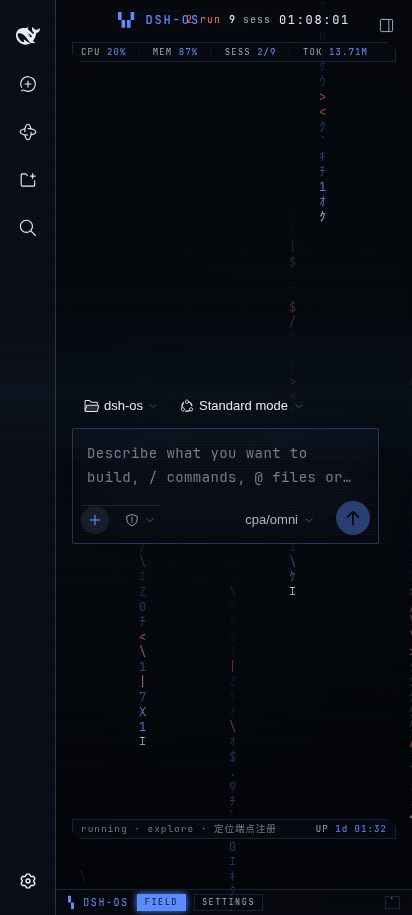
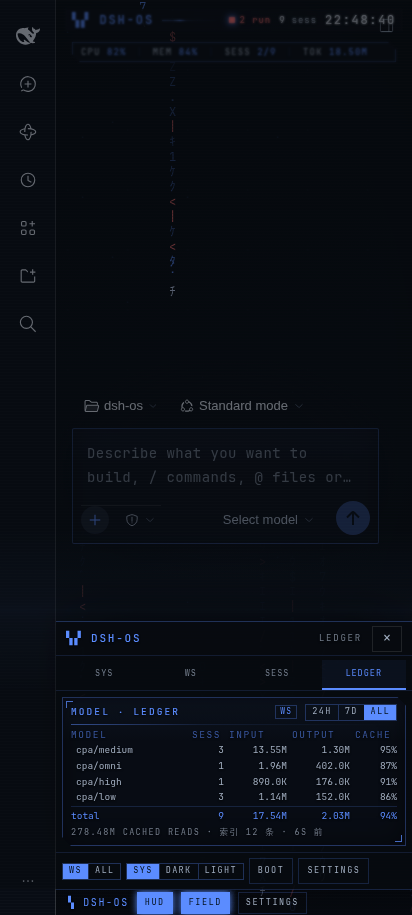
docs: record the mobile HUD and Windows validation
- Add the feature plan/summary, including the real Windows CI run and
  the launch-token workaround for dsh-e2e on 0.2.1-rc.3.
- Refresh README (both languages) and module instructions for the
  mobile bottom-sheet HUD, touch targets and the host CI matrix.
- Open host settings through the account menu on newer DSH layouts,
  which moved the settings trigger out of `sidebar.settings`.
- Regenerate the official screenshots; the mobile shot now shows the
  LEDGER tab, and the boot shot closes the login modal deterministically.

diff --git a/lib/client.js b/lib/client.js
@@ -592,7 +592,7 @@ html.dsh-os-theme[data-dos-strip-card] [data-conversation-scroll] {
 @media (max-width: 400px) {
   .dos-strip-age { display: none; }
 }
-`;function lo(){return window.matchMedia("(prefers-color-scheme: dark)").matches?"dark":"light"}function us(){return document.body.hasAttribute("data-ds-dark-theme")||document.documentElement.getAttribute("data-ds-theme-source")==="dark"?"dark":lo()}var dt=class{tone;preference;writable;skin;service;skinLayer=null;listeners=new Set;disposers=[];constructor(s){this.service=typeof s.theme?.getTheme=="function"?s.theme:void 0,this.writable=!!this.service,this.skin=typeof this.service?.overrideTokens=="function";let e=this.service?.getTheme();if(this.tone=e?e.active.colorScheme:us(),this.preference=e&&e.preference!=="system"?e.preference:"auto",this.service&&s.on){let n=s.on("theme/change",o=>{let a=o.active.colorScheme,l=o.preference==="system"?"auto":o.preference;a===this.tone&&l===this.preference||(this.tone=a,this.preference=l,this.emit())});typeof n=="function"&&this.disposers.push(n)}else this.watchDom()}applySkin(s){return this.service?.overrideTokens?(this.skinLayer=this.service.overrideTokens("dsh-os",s),!0):!1}clearSkin(){this.skinLayer?.(),this.skinLayer=null}watchDom(){let s=window.matchMedia("(prefers-color-scheme: dark)"),e=()=>{let a=us();a!==this.tone&&(this.tone=a,this.emit())},n=new MutationObserver(e);n.observe(document.body,{attributes:!0,attributeFilter:["data-ds-dark-theme"]});let o=new MutationObserver(e);o.observe(document.documentElement,{attributes:!0,attributeFilter:["data-ds-theme-source"]}),s.addEventListener("change",e),this.disposers.push(()=>{n.disconnect(),o.disconnect(),s.removeEventListener("change",e)})}set(s){this.service?.setTheme(s==="auto"?"system":s)}subscribe=s=>(this.listeners.add(s),()=>{this.listeners.delete(s)});dispose(){this.clearSkin();for(let s of this.disposers)s();this.disposers.length=0,this.listeners.clear()}emit(){for(let s of this.listeners)s()}};function ct(t,s){return t==="auto"?s:t}var Ce=require("react/jsx-runtime"),co="dsh-os",po=["slots","sessions","uiWorkspace","theme"],Tt="dsh-os:booted",ws="/plugins/dsh-os/metrics",ms=2e3,gs=5e3;function pt(t){for(let s of t.ids){let e=t.byId[s];if(e&&(e.retainedBy?.mainView??0)>0)return s}return null}function Ct(t){let s=pt(t);return s===null?!0:t.byId[s]?.blank===!0}function Et(t){let s=t.ids.map(a=>t.byId[a]).filter(a=>!!a?.cwd);if(s.length===0)return"";let e=s.find(a=>(a.retainedBy?.mainView??0)>0);if(e)return e.cwd;let n=s.filter(a=>a.blank);return(n.length>0?n:s).slice().sort((a,l)=>(l.updatedAt??0)-(a.updatedAt??0))[0]?.cwd??""}function Rt(){let t={w:window.innerWidth,h:window.innerHeight},s=document.querySelector('[class*="_centerCol"]')??document.querySelector('[data-slot="root"] > div > :nth-child(2)')??null,e=document.querySelector('[class*="_composerHero"]'),n=l=>{if(!l)return null;let i=l.getBoundingClientRect();return i.width<40||i.height<20?null:{x:i.x,y:i.y,w:i.width,h:i.height}},o=n(s)??{x:0,y:0,w:t.w,h:t.h},a=n(document.querySelector("[data-conversation-scroll]"));if(a){let l=Number.parseFloat(getComputedStyle(document.documentElement).getPropertyValue("--dos-strip-room"));Number.isFinite(l)&&l>0&&(a.y-=l)}return{col:o,hero:n(e),session:a,view:t}}function fo(){return window.matchMedia("(prefers-reduced-motion: reduce)").matches}function hs(t){for(let o of document.querySelectorAll(".dos-paint-through"))o.classList.remove("dos-paint-through");if(!t)return;let s=document.querySelector('[class*="_composerHero"]'),e=document.querySelector('[class*="_centerCol"]'),n=s?.parentElement??e;for(;n&&n!==document.body;){let o=getComputedStyle(n).backgroundColor,a=o&&o!=="rgba(0, 0, 0, 0)"&&o!=="transparent",l=n.getBoundingClientRect().height>=(e?.getBoundingClientRect().height??0)*.6;if(a&&l&&n.classList.add("dos-paint-through"),n===e)break;n=n.parentElement}}function xs(t){return{x:t.col.x,y:t.col.y+46,w:t.col.w,h:Math.max(240,t.col.h-120)}}function ys(t){if(!t.hero)return null;let{x:s,y:e,w:n,h:o}=t.hero;return{x:s-24,y:e-24,w:n+48,h:o+48}}function bs(t,s,e){return{at:Date.now(),tag:t,msg:s,tone:e}}function uo(){let t=0,s=[bs("dsh-os","2.0 \xB7 session index linked"),bs("telemetry",`${ws} online`)];return{get lines(){return s},push(e,n,o){let a=Date.now();return a-t<800?!1:(t=a,s=[...s.slice(-39),{at:a,tag:e,msg:n,tone:o}],!0)}}}function vs(){let s=document.querySelector('[class*="_settingsArea"]')?.querySelector('button, [role="button"]');if(s instanceof HTMLElement){s.click();return}let n=[...document.querySelectorAll('button, [role="button"]')].find(o=>{let a=o.getAttribute("aria-label")??"",l=(o.textContent??"").trim();return/settings|设置/i.test(a)||/^(settings|设置)$/i.test(l)});n instanceof HTMLElement&&n.click()}var At=class{ctx;settings;theme;layer=null;field=null;active=!1;constructor(s,e,n){this.ctx=s,this.settings=e,this.theme=n}activate(){this.active||(this.active=!0,document.documentElement.classList.add("dsh-os-live"),hs(!0),this.applyTheme(),this.syncField())}deactivate(){this.active&&(this.active=!1,document.documentElement.classList.remove("dsh-os-live"),this.applyTheme(),this.unmountField(),hs(!1))}applyTheme(){let s=document.documentElement,e=this.settings.value,n=ct(e.tone,this.theme.tone),o=kt(e);s.dataset.dosTone=n,s.classList.toggle("dsh-os-theme",e.skin),s.classList.toggle("dsh-os-skin-composer",e.skinComposer),e.skin&&this.theme.skin?this.theme.applySkin(is(o)):this.theme.clearSkin();let a=ls(n,o);if(e.enabled||e.skin)for(let[l,i]of Object.entries(a))s.style.setProperty(l,i);else for(let l of Object.keys(a))s.style.removeProperty(l);!e.enabled&&!e.skin&&s.removeAttribute("data-dos-tone"),this.field?.setSurface(n),this.field?.setPalette(St(n,o),o)}syncField(){if(!this.active)return;let s=this.settings.value.pattern;this.field&&this.unmountField(),s!=="off"&&this.mountField(s)}mountField(s){if(this.layer||s==="off")return;let e=document.createElement("div");e.id="dsh-os-field";let n=document.createElement("canvas");e.appendChild(n),document.body.appendChild(e),this.layer=e,this.field=Wt(n,{pattern:s,reduced:fo()});let o=this.settings.value,a=ct(o.tone,this.theme.tone),l=kt(o);this.field.setSurface(a),this.field.setPalette(St(a,l),l);let i=Rt();this.field.setClearRect(ys(i)),this.field.setStage(xs(i)),this.field.start()}unmountField(){this.field?.destroy(),this.field=null,this.layer?.remove(),this.layer=null}openSession(s){this.ctx.uiWorkspace.openSession(s)}};function mo({runtime:t}){let{session:s,settings:e,theme:n}=t,o=A.useSyncExternalStore(e.subscribe,()=>e.value);A.useSyncExternalStore(n.subscribe,()=>n.tone);let[a,l]=A.useState(null),[i,d]=A.useState(()=>jt()),[p,u]=A.useState(()=>Rt()),[w,v]=A.useState(()=>Date.now()),[m,h]=A.useState(0),[k,$]=A.useState("all"),[B,J]=A.useState(()=>Ct(s.ctx.sessions.list.getSnapshot())),[X,me]=A.useState(()=>Et(s.ctx.sessions.list.getSnapshot())),[q,Y]=A.useState(null),[Z,je]=A.useState(()=>pt(s.ctx.sessions.list.getSnapshot())),[He,ce]=A.useState(!1),[,Ee]=A.useState(0),re=A.useRef(uo()),ne=A.useRef({cpu:0,mem:0,net:0,runningIds:new Set,sessions:0}),ee=B&&o.enabled,te=!B&&o.strip&&q!==null,we=A.useRef(ee);we.current=ee,A.useEffect(()=>{let b=!0,x=0,S=async()=>{if(b){if(document.hidden||!we.current){x=window.setTimeout(S,ms);return}try{let L=await fetch(ws,{cache:"no-store",credentials:"same-origin"});if(L.ok){let ge=await L.json();b&&l(ge)}}catch{}x=window.setTimeout(S,ms)}};return S(),()=>{b=!1,window.clearTimeout(x)}},[]),A.useEffect(()=>{let b=!0,x=0,S=async()=>{if(b){if(!we.current){x=window.setTimeout(S,gs);return}try{let L=await Jt(X);b&&L&&d(L)}catch{}x=window.setTimeout(S,gs)}};return S(),()=>{b=!1,window.clearTimeout(x)}},[X]),A.useEffect(()=>{let b=s.ctx.sessions.list,x=()=>{let S=b.getSnapshot();J(Ct(S)),me(Et(S));let L=pt(S);je(L);let ge=L?S.byId[L]:null,Ae=L?S.projectionsBySession?.[L]?.values:void 0;Y(ge?cs({...ge,projectionValues:{...ge.projectionValues??{},...Ae??{}}}):null)};return x(),b.subscribe(x)},[s]),A.useEffect(()=>{if(B||!Z)return;let b=()=>{s.ctx.sessions.refreshProjections?.(Z).catch(()=>{})};b();let x=window.setInterval(b,2e4);return()=>window.clearInterval(x)},[B,Z,s]),A.useEffect(()=>(document.documentElement.toggleAttribute("data-dos-strip",te),()=>document.documentElement.removeAttribute("data-dos-strip")),[te]),A.useEffect(()=>{window.__dshOsStrip=()=>{let b=s.ctx.sessions.list.getSnapshot(),x=pt(b),S=x?b.projectionsBySession?.[x]:void 0;return{activeId:x,stripReady:q!==null,state:S?.state??null,keys:S?.values?Object.keys(S.values):[],tokenUsage:S?.values?.tokenUsage??null,hasRefresh:typeof s.ctx.sessions.refreshProjections=="function"}}},[s,q]),A.useEffect(()=>{let b=window.setInterval(()=>v(Date.now()),1e3);return()=>window.clearInterval(b)},[]),A.useEffect(()=>{let b=()=>u(Rt());b(),window.addEventListener("resize",b);let x=new ResizeObserver(b),S=document.querySelector('[class*="_centerCol"]')??document.body;x.observe(S);let L=window.setInterval(b,1200);return()=>{window.removeEventListener("resize",b),x.disconnect(),window.clearInterval(L)}},[B]),A.useEffect(()=>{ee?s.activate():s.deactivate(),s.applyTheme()},[ee,o.enabled,o.skin,o.accent,o.custom,o.tone,o.skinComposer,s,n.tone]),A.useEffect(()=>{s.syncField()},[o.pattern,ee,s]),A.useEffect(()=>{!ee||!o.boot||window.sessionStorage.getItem(Tt)!=="1"&&ce(!0)},[ee,o.boot]),A.useEffect(()=>{s.field&&(s.field.setSignal({cpu:a?.cpu.total??0,mem:a?.mem.percent??0,rx:a?.net.rxBps??0,tx:a?.net.txBps??0,load:a?.load[0]??0,running:i.all.running}),s.field.setClearRect(ys(p)),s.field.setStage(xs(p)))},[a,i.all.running,p,o.pattern,ee]),A.useEffect(()=>{let b=window.setInterval(()=>h(s.field?.fps()??0),1e3);return()=>window.clearInterval(b)},[s,o.pattern,ee]),A.useEffect(()=>{if(!a)return;let b=ne.current,x=!1,S=a.net.rxBps+a.net.txBps;a.cpu.total>=85&&b.cpu<85&&(x=re.current.push("cpu",`saturation ${Math.round(a.cpu.total)}%`,"warn")||x),a.mem.percent>=88&&b.mem<88&&(x=re.current.push("mem",`pressure ${Math.round(a.mem.percent)}%`,"warn")||x),S>3e6&&b.net<=3e6&&(x=re.current.push("net",`burst ${Math.round(S/1024)}K/s`)||x),a.node.lagMs>45&&(x=re.current.push("node",`event loop lag ${a.node.lagMs.toFixed(0)}ms`,"warn")||x),ne.current={...b,cpu:a.cpu.total,mem:a.mem.percent,net:S},x&&Ee(L=>L+1)},[a]),A.useEffect(()=>{let b=ne.current,x=new Set(i.running.map(L=>L.id)),S=!1;for(let L of i.running)b.runningIds.has(L.id)||(S=re.current.push("agent",`running \xB7 ${L.title}`,"mag")||S);for(let L of b.runningIds)x.has(L)||(S=re.current.push("agent",`idle \xB7 ${L.slice(0,8)}`)||S);i.all.sessions!==b.sessions&&(S=re.current.push("index",`catalogue ${b.sessions} \u2192 ${i.all.sessions}`)||S),ne.current={...b,runningIds:x,sessions:i.all.sessions},S&&Ee(L=>L+1)},[i]);let Re={openSession:b=>s.openSession(b),toggleField:()=>e.set({pattern:o.pattern==="off"?"rain":"off"}),replayBoot:()=>{window.sessionStorage.setItem(Tt,"1"),ce(!0)},openSettings:()=>vs(),setScope:b=>e.set({scope:b}),setTone:b=>{e.set({tone:b}),n.set(b)},setWindow:$},Ne=()=>{window.sessionStorage.setItem(Tt,"1"),ce(!1)};return(0,Ce.jsxs)(Ce.Fragment,{children:[te&&p.session&&(0,Ce.jsx)("div",{className:"dos-strip-seat",style:{position:"fixed",left:Math.round(p.session.x+6),top:Math.round(p.session.y+3),width:Math.round(p.session.w-12),pointerEvents:"none",zIndex:21},children:(0,Ce.jsx)(ps,{data:q,now:w,tone:o.tone,onTone:b=>Re.setTone(b),onOpenSettings:vs})}),(0,Ce.jsx)(Qt,{metrics:a,harness:i,logs:re.current.lines,settings:o,geometry:p,now:w,fps:m,window:k,active:ee,actions:Re}),He&&ee&&(0,Ce.jsx)(Gt,{metrics:a,harness:i,fps:m,onDone:Ne})]})}function go(){document.getElementById(Mt)?.remove();let s=document.createElement("style");return s.id=Mt,s.textContent=fs,document.head.appendChild(s),()=>s.remove()}function ho(t){let s=e=>{if(e.isComposing||e.keyCode===229)return;let n=e.target;n&&(n.isContentEditable||/input|textarea|select/i.test(n.tagName))||(e.key==="`"||e.key==="~")&&(e.preventDefault(),t.settings.set({enabled:!t.settings.value.enabled}))};return document.addEventListener("keydown",s),()=>document.removeEventListener("keydown",s)}function bo(t){let s=globalThis;s.__dshOs?.dispose();let e=go(),n=new rt,o=new dt(t),a=new At(t,n,o),l=ho(a),i={ctx:t,session:a,settings:n,theme:o},d=t.slots.inject("shell.overlay",()=>t.slots.register({name:"shell.overlay",id:"dsh-os",order:4,inject:()=>({runtime:i})},mo)),p=t.slots.inject("settings.section",()=>t.slots.register({name:"settings.section",id:"dsh-os",order:88,label:()=>"Harness OS",inject:()=>({store:n})},as)),u=()=>{a.field&&(document.hidden?a.field.stop():a.field.start())};document.addEventListener("visibilitychange",u);let w=()=>{document.removeEventListener("visibilitychange",u),l(),d(),p(),e(),a.deactivate(),o.dispose(),s.__dshOs=void 0};s.__dshOs={dispose:w},window.__dshOsState=()=>({home:Ct(t.sessions.list.getSnapshot()),workspace:Et(t.sessions.list.getSnapshot()),settings:n.value,active:a.active,field:!!a.field,tone:ct(n.value.tone,o.tone),hostTone:o.tone,skinLayer:o.skin}),t.effect&&t.effect(()=>w,"dsh-os: desktop")}
+`;function lo(){return window.matchMedia("(prefers-color-scheme: dark)").matches?"dark":"light"}function us(){return document.body.hasAttribute("data-ds-dark-theme")||document.documentElement.getAttribute("data-ds-theme-source")==="dark"?"dark":lo()}var dt=class{tone;preference;writable;skin;service;skinLayer=null;listeners=new Set;disposers=[];constructor(s){this.service=typeof s.theme?.getTheme=="function"?s.theme:void 0,this.writable=!!this.service,this.skin=typeof this.service?.overrideTokens=="function";let e=this.service?.getTheme();if(this.tone=e?e.active.colorScheme:us(),this.preference=e&&e.preference!=="system"?e.preference:"auto",this.service&&s.on){let n=s.on("theme/change",o=>{let a=o.active.colorScheme,l=o.preference==="system"?"auto":o.preference;a===this.tone&&l===this.preference||(this.tone=a,this.preference=l,this.emit())});typeof n=="function"&&this.disposers.push(n)}else this.watchDom()}applySkin(s){return this.service?.overrideTokens?(this.skinLayer=this.service.overrideTokens("dsh-os",s),!0):!1}clearSkin(){this.skinLayer?.(),this.skinLayer=null}watchDom(){let s=window.matchMedia("(prefers-color-scheme: dark)"),e=()=>{let a=us();a!==this.tone&&(this.tone=a,this.emit())},n=new MutationObserver(e);n.observe(document.body,{attributes:!0,attributeFilter:["data-ds-dark-theme"]});let o=new MutationObserver(e);o.observe(document.documentElement,{attributes:!0,attributeFilter:["data-ds-theme-source"]}),s.addEventListener("change",e),this.disposers.push(()=>{n.disconnect(),o.disconnect(),s.removeEventListener("change",e)})}set(s){this.service?.setTheme(s==="auto"?"system":s)}subscribe=s=>(this.listeners.add(s),()=>{this.listeners.delete(s)});dispose(){this.clearSkin();for(let s of this.disposers)s();this.disposers.length=0,this.listeners.clear()}emit(){for(let s of this.listeners)s()}};function ct(t,s){return t==="auto"?s:t}var Ce=require("react/jsx-runtime"),co="dsh-os",po=["slots","sessions","uiWorkspace","theme"],Tt="dsh-os:booted",ws="/plugins/dsh-os/metrics",ms=2e3,gs=5e3;function pt(t){for(let s of t.ids){let e=t.byId[s];if(e&&(e.retainedBy?.mainView??0)>0)return s}return null}function Ct(t){let s=pt(t);return s===null?!0:t.byId[s]?.blank===!0}function Et(t){let s=t.ids.map(a=>t.byId[a]).filter(a=>!!a?.cwd);if(s.length===0)return"";let e=s.find(a=>(a.retainedBy?.mainView??0)>0);if(e)return e.cwd;let n=s.filter(a=>a.blank);return(n.length>0?n:s).slice().sort((a,l)=>(l.updatedAt??0)-(a.updatedAt??0))[0]?.cwd??""}function Rt(){let t={w:window.innerWidth,h:window.innerHeight},s=document.querySelector('[class*="_centerCol"]')??document.querySelector('[data-slot="root"] > div > :nth-child(2)')??null,e=document.querySelector('[class*="_composerHero"]'),n=l=>{if(!l)return null;let i=l.getBoundingClientRect();return i.width<40||i.height<20?null:{x:i.x,y:i.y,w:i.width,h:i.height}},o=n(s)??{x:0,y:0,w:t.w,h:t.h},a=n(document.querySelector("[data-conversation-scroll]"));if(a){let l=Number.parseFloat(getComputedStyle(document.documentElement).getPropertyValue("--dos-strip-room"));Number.isFinite(l)&&l>0&&(a.y-=l)}return{col:o,hero:n(e),session:a,view:t}}function fo(){return window.matchMedia("(prefers-reduced-motion: reduce)").matches}function hs(t){for(let o of document.querySelectorAll(".dos-paint-through"))o.classList.remove("dos-paint-through");if(!t)return;let s=document.querySelector('[class*="_composerHero"]'),e=document.querySelector('[class*="_centerCol"]'),n=s?.parentElement??e;for(;n&&n!==document.body;){let o=getComputedStyle(n).backgroundColor,a=o&&o!=="rgba(0, 0, 0, 0)"&&o!=="transparent",l=n.getBoundingClientRect().height>=(e?.getBoundingClientRect().height??0)*.6;if(a&&l&&n.classList.add("dos-paint-through"),n===e)break;n=n.parentElement}}function xs(t){return{x:t.col.x,y:t.col.y+46,w:t.col.w,h:Math.max(240,t.col.h-120)}}function ys(t){if(!t.hero)return null;let{x:s,y:e,w:n,h:o}=t.hero;return{x:s-24,y:e-24,w:n+48,h:o+48}}function bs(t,s,e){return{at:Date.now(),tag:t,msg:s,tone:e}}function uo(){let t=0,s=[bs("dsh-os","2.0 \xB7 session index linked"),bs("telemetry",`${ws} online`)];return{get lines(){return s},push(e,n,o){let a=Date.now();return a-t<800?!1:(t=a,s=[...s.slice(-39),{at:a,tag:e,msg:n,tone:o}],!0)}}}function vs(){let s=[...document.querySelectorAll('button, [role="button"]')].find(n=>{if(n.closest(".dos-root"))return!1;let o=n.getAttribute("aria-label")??"",a=(n.textContent??"").trim();return/^(settings|设置)$/i.test(o)||/^(settings|设置)$/i.test(a)});if(s instanceof HTMLElement){s.click();return}let e=document.querySelector('[class*="_settingsArea"] button[aria-haspopup="menu"], button[aria-label="Account menu"]');e instanceof HTMLElement&&(e.click(),window.setTimeout(()=>{let n=[...document.querySelectorAll('[role="menuitem"]')].find(o=>/^(settings|设置)$/i.test((o.textContent??"").trim()));n instanceof HTMLElement&&n.click()},120))}var At=class{ctx;settings;theme;layer=null;field=null;active=!1;constructor(s,e,n){this.ctx=s,this.settings=e,this.theme=n}activate(){this.active||(this.active=!0,document.documentElement.classList.add("dsh-os-live"),hs(!0),this.applyTheme(),this.syncField())}deactivate(){this.active&&(this.active=!1,document.documentElement.classList.remove("dsh-os-live"),this.applyTheme(),this.unmountField(),hs(!1))}applyTheme(){let s=document.documentElement,e=this.settings.value,n=ct(e.tone,this.theme.tone),o=kt(e);s.dataset.dosTone=n,s.classList.toggle("dsh-os-theme",e.skin),s.classList.toggle("dsh-os-skin-composer",e.skinComposer),e.skin&&this.theme.skin?this.theme.applySkin(is(o)):this.theme.clearSkin();let a=ls(n,o);if(e.enabled||e.skin)for(let[l,i]of Object.entries(a))s.style.setProperty(l,i);else for(let l of Object.keys(a))s.style.removeProperty(l);!e.enabled&&!e.skin&&s.removeAttribute("data-dos-tone"),this.field?.setSurface(n),this.field?.setPalette(St(n,o),o)}syncField(){if(!this.active)return;let s=this.settings.value.pattern;this.field&&this.unmountField(),s!=="off"&&this.mountField(s)}mountField(s){if(this.layer||s==="off")return;let e=document.createElement("div");e.id="dsh-os-field";let n=document.createElement("canvas");e.appendChild(n),document.body.appendChild(e),this.layer=e,this.field=Wt(n,{pattern:s,reduced:fo()});let o=this.settings.value,a=ct(o.tone,this.theme.tone),l=kt(o);this.field.setSurface(a),this.field.setPalette(St(a,l),l);let i=Rt();this.field.setClearRect(ys(i)),this.field.setStage(xs(i)),this.field.start()}unmountField(){this.field?.destroy(),this.field=null,this.layer?.remove(),this.layer=null}openSession(s){this.ctx.uiWorkspace.openSession(s)}};function mo({runtime:t}){let{session:s,settings:e,theme:n}=t,o=A.useSyncExternalStore(e.subscribe,()=>e.value);A.useSyncExternalStore(n.subscribe,()=>n.tone);let[a,l]=A.useState(null),[i,d]=A.useState(()=>jt()),[p,u]=A.useState(()=>Rt()),[w,v]=A.useState(()=>Date.now()),[m,h]=A.useState(0),[k,$]=A.useState("all"),[B,J]=A.useState(()=>Ct(s.ctx.sessions.list.getSnapshot())),[X,me]=A.useState(()=>Et(s.ctx.sessions.list.getSnapshot())),[q,Y]=A.useState(null),[Z,je]=A.useState(()=>pt(s.ctx.sessions.list.getSnapshot())),[He,ce]=A.useState(!1),[,Ee]=A.useState(0),re=A.useRef(uo()),ne=A.useRef({cpu:0,mem:0,net:0,runningIds:new Set,sessions:0}),ee=B&&o.enabled,te=!B&&o.strip&&q!==null,we=A.useRef(ee);we.current=ee,A.useEffect(()=>{let b=!0,x=0,S=async()=>{if(b){if(document.hidden||!we.current){x=window.setTimeout(S,ms);return}try{let L=await fetch(ws,{cache:"no-store",credentials:"same-origin"});if(L.ok){let ge=await L.json();b&&l(ge)}}catch{}x=window.setTimeout(S,ms)}};return S(),()=>{b=!1,window.clearTimeout(x)}},[]),A.useEffect(()=>{let b=!0,x=0,S=async()=>{if(b){if(!we.current){x=window.setTimeout(S,gs);return}try{let L=await Jt(X);b&&L&&d(L)}catch{}x=window.setTimeout(S,gs)}};return S(),()=>{b=!1,window.clearTimeout(x)}},[X]),A.useEffect(()=>{let b=s.ctx.sessions.list,x=()=>{let S=b.getSnapshot();J(Ct(S)),me(Et(S));let L=pt(S);je(L);let ge=L?S.byId[L]:null,Ae=L?S.projectionsBySession?.[L]?.values:void 0;Y(ge?cs({...ge,projectionValues:{...ge.projectionValues??{},...Ae??{}}}):null)};return x(),b.subscribe(x)},[s]),A.useEffect(()=>{if(B||!Z)return;let b=()=>{s.ctx.sessions.refreshProjections?.(Z).catch(()=>{})};b();let x=window.setInterval(b,2e4);return()=>window.clearInterval(x)},[B,Z,s]),A.useEffect(()=>(document.documentElement.toggleAttribute("data-dos-strip",te),()=>document.documentElement.removeAttribute("data-dos-strip")),[te]),A.useEffect(()=>{window.__dshOsStrip=()=>{let b=s.ctx.sessions.list.getSnapshot(),x=pt(b),S=x?b.projectionsBySession?.[x]:void 0;return{activeId:x,stripReady:q!==null,state:S?.state??null,keys:S?.values?Object.keys(S.values):[],tokenUsage:S?.values?.tokenUsage??null,hasRefresh:typeof s.ctx.sessions.refreshProjections=="function"}}},[s,q]),A.useEffect(()=>{let b=window.setInterval(()=>v(Date.now()),1e3);return()=>window.clearInterval(b)},[]),A.useEffect(()=>{let b=()=>u(Rt());b(),window.addEventListener("resize",b);let x=new ResizeObserver(b),S=document.querySelector('[class*="_centerCol"]')??document.body;x.observe(S);let L=window.setInterval(b,1200);return()=>{window.removeEventListener("resize",b),x.disconnect(),window.clearInterval(L)}},[B]),A.useEffect(()=>{ee?s.activate():s.deactivate(),s.applyTheme()},[ee,o.enabled,o.skin,o.accent,o.custom,o.tone,o.skinComposer,s,n.tone]),A.useEffect(()=>{s.syncField()},[o.pattern,ee,s]),A.useEffect(()=>{!ee||!o.boot||window.sessionStorage.getItem(Tt)!=="1"&&ce(!0)},[ee,o.boot]),A.useEffect(()=>{s.field&&(s.field.setSignal({cpu:a?.cpu.total??0,mem:a?.mem.percent??0,rx:a?.net.rxBps??0,tx:a?.net.txBps??0,load:a?.load[0]??0,running:i.all.running}),s.field.setClearRect(ys(p)),s.field.setStage(xs(p)))},[a,i.all.running,p,o.pattern,ee]),A.useEffect(()=>{let b=window.setInterval(()=>h(s.field?.fps()??0),1e3);return()=>window.clearInterval(b)},[s,o.pattern,ee]),A.useEffect(()=>{if(!a)return;let b=ne.current,x=!1,S=a.net.rxBps+a.net.txBps;a.cpu.total>=85&&b.cpu<85&&(x=re.current.push("cpu",`saturation ${Math.round(a.cpu.total)}%`,"warn")||x),a.mem.percent>=88&&b.mem<88&&(x=re.current.push("mem",`pressure ${Math.round(a.mem.percent)}%`,"warn")||x),S>3e6&&b.net<=3e6&&(x=re.current.push("net",`burst ${Math.round(S/1024)}K/s`)||x),a.node.lagMs>45&&(x=re.current.push("node",`event loop lag ${a.node.lagMs.toFixed(0)}ms`,"warn")||x),ne.current={...b,cpu:a.cpu.total,mem:a.mem.percent,net:S},x&&Ee(L=>L+1)},[a]),A.useEffect(()=>{let b=ne.current,x=new Set(i.running.map(L=>L.id)),S=!1;for(let L of i.running)b.runningIds.has(L.id)||(S=re.current.push("agent",`running \xB7 ${L.title}`,"mag")||S);for(let L of b.runningIds)x.has(L)||(S=re.current.push("agent",`idle \xB7 ${L.slice(0,8)}`)||S);i.all.sessions!==b.sessions&&(S=re.current.push("index",`catalogue ${b.sessions} \u2192 ${i.all.sessions}`)||S),ne.current={...b,runningIds:x,sessions:i.all.sessions},S&&Ee(L=>L+1)},[i]);let Re={openSession:b=>s.openSession(b),toggleField:()=>e.set({pattern:o.pattern==="off"?"rain":"off"}),replayBoot:()=>{window.sessionStorage.setItem(Tt,"1"),ce(!0)},openSettings:()=>vs(),setScope:b=>e.set({scope:b}),setTone:b=>{e.set({tone:b}),n.set(b)},setWindow:$},Ne=()=>{window.sessionStorage.setItem(Tt,"1"),ce(!1)};return(0,Ce.jsxs)(Ce.Fragment,{children:[te&&p.session&&(0,Ce.jsx)("div",{className:"dos-strip-seat",style:{position:"fixed",left:Math.round(p.session.x+6),top:Math.round(p.session.y+3),width:Math.round(p.session.w-12),pointerEvents:"none",zIndex:21},children:(0,Ce.jsx)(ps,{data:q,now:w,tone:o.tone,onTone:b=>Re.setTone(b),onOpenSettings:vs})}),(0,Ce.jsx)(Qt,{metrics:a,harness:i,logs:re.current.lines,settings:o,geometry:p,now:w,fps:m,window:k,active:ee,actions:Re}),He&&ee&&(0,Ce.jsx)(Gt,{metrics:a,harness:i,fps:m,onDone:Ne})]})}function go(){document.getElementById(Mt)?.remove();let s=document.createElement("style");return s.id=Mt,s.textContent=fs,document.head.appendChild(s),()=>s.remove()}function ho(t){let s=e=>{if(e.isComposing||e.keyCode===229)return;let n=e.target;n&&(n.isContentEditable||/input|textarea|select/i.test(n.tagName))||(e.key==="`"||e.key==="~")&&(e.preventDefault(),t.settings.set({enabled:!t.settings.value.enabled}))};return document.addEventListener("keydown",s),()=>document.removeEventListener("keydown",s)}function bo(t){let s=globalThis;s.__dshOs?.dispose();let e=go(),n=new rt,o=new dt(t),a=new At(t,n,o),l=ho(a),i={ctx:t,session:a,settings:n,theme:o},d=t.slots.inject("shell.overlay",()=>t.slots.register({name:"shell.overlay",id:"dsh-os",order:4,inject:()=>({runtime:i})},mo)),p=t.slots.inject("settings.section",()=>t.slots.register({name:"settings.section",id:"dsh-os",order:88,label:()=>"Harness OS",inject:()=>({store:n})},as)),u=()=>{a.field&&(document.hidden?a.field.stop():a.field.start())};document.addEventListener("visibilitychange",u);let w=()=>{document.removeEventListener("visibilitychange",u),l(),d(),p(),e(),a.deactivate(),o.dispose(),s.__dshOs=void 0};s.__dshOs={dispose:w},window.__dshOsState=()=>({home:Ct(t.sessions.list.getSnapshot()),workspace:Et(t.sessions.list.getSnapshot()),settings:n.value,active:a.active,field:!!a.field,tone:ct(n.value.tone,o.tone),hostTone:o.tone,skinLayer:o.skin}),t.effect&&t.effect(()=>w,"dsh-os: desktop")}
 		return module.exports;
 	}
 });

diff --git a/src/client/index.tsx b/src/client/index.tsx
@@ -187,22 +187,29 @@ function makeLogger() {
 	}
 }
 
-/** 打开宿主设置面板：点侧边栏最下面那颗 Settings。 */
+/** 打开宿主设置面板。新版侧边栏把入口收进了账号菜单，两种形态都要认。 */
 function openHostSettings(): void {
-	// 窄屏侧边栏会折成图标栏，设置入口只剩图标；优先按区域找，再按 aria-label 兜底。
-	const area = document.querySelector('[class*="_settingsArea"]')
-	const scoped = area?.querySelector('button, [role="button"]')
-	if (scoped instanceof HTMLElement) {
-		scoped.click()
-		return
-	}
 	const candidates = [...document.querySelectorAll('button, [role="button"]')]
-	const target = candidates.find((element) => {
+	const direct = candidates.find((element) => {
+		if (element.closest('.dos-root')) return false
 		const label = element.getAttribute('aria-label') ?? ''
 		const text = (element.textContent ?? '').trim()
-		return /settings|设置/i.test(label) || /^(settings|设置)$/i.test(text)
+		return /^(settings|设置)$/i.test(label) || /^(settings|设置)$/i.test(text)
 	})
-	if (target instanceof HTMLElement) target.click()
+	if (direct instanceof HTMLElement) {
+		direct.click()
+		return
+	}
+	// 0.2.1-rc.3 起 `sidebar.settings` 槽位变成账号菜单；先展开，再点菜单里的 Settings。
+	const account = document.querySelector('[class*="_settingsArea"] button[aria-haspopup="menu"], button[aria-label="Account menu"]')
+	if (!(account instanceof HTMLElement)) return
+	account.click()
+	window.setTimeout(() => {
+		const item = [...document.querySelectorAll('[role="menuitem"]')].find((element) =>
+			/^(settings|设置)$/i.test((element.textContent ?? '').trim()),
+		)
+		if (item instanceof HTMLElement) item.click()
+	}, 120)
 }
 
 /** 一次生命周期内共享的运行时：DOM 层、字段引擎、偏好、宿主主题。 */

diff --git a/AGENTS.md b/AGENTS.md
@@ -22,10 +22,11 @@
 - `src/client/skin/strip.tsx`：会话遥测条与明细卡（读 `projectionValues` / `projectionsBySession`；打开中的会话由 `ctx.sessions.refreshProjections` 催一次昂贵投影）。
 - `src/client/styles.ts`：单文件注入样式表（`.dos-` 桌面与遥测条 / `.dso-` 设置页），只补 token 到不了的地方 —— 选区、滚动条、chrome 排版、官方写死的浮层浅字、以及 `.dos-strip-*` 等自有元件。
 - `src/client/field/`：Canvas 字符动效引擎（`rain` 稀疏字符雨、`dshchan` 3D 全息投影、`field` 等高线拓扑）；`chan-art.ts` 由 `tools/chan-art.py` 从立绘生成，勿手改。
-- `src/client/os/`：HUD 桌面（`Desktop.tsx`）、窗格（`panels.tsx`：SYS·MONITOR / WORKSPACE·OVERVIEW / SESSIONS·RECENT / MODEL·LEDGER）、构件（`chrome.tsx`）、开机自检（`Boot.tsx`）与设置面板（`settings-panel.tsx`）。
+- `src/client/os/`：HUD 桌面（`Desktop.tsx`，含窄屏底部 HUD 抽屉与四页签）、窗格（`panels.tsx`：SYS·MONITOR / WORKSPACE·OVERVIEW / SESSIONS·RECENT / MODEL·LEDGER）、构件（`chrome.tsx`）、开机自检（`Boot.tsx`）与设置面板（`settings-panel.tsx`）。
 - `src/client/settings.ts`：偏好存储（localStorage）与主题色选择。**不再持有颜色**，色源在 `skin/palette.ts`。
 - `e2e/smoke.mjs`：首页桌面层的无头端到端冒烟测试（含主题 token 断言与"背景与文字同亮"的对比度哨兵）。
 - `e2e/session.mjs`：会话视图检查（遥测条真实读数、明细卡让位且不压正文、卡片内换墨），需要隔离 home 里有真实会话日志，否则明确跳过。
+- `e2e/host.mjs`：直接加载 `lib/index.js` 的宿主端点校验（临时 DSH_HOME、Windows 路径夹具、能力位），由 `.github/workflows/host.yml` 在 Ubuntu 与 Windows runner 上执行。
 - `e2e/lib/fixtures.mjs` 播种会话投影夹具；`e2e/shots.mjs` 重出官方截图；`e2e/seed-conversation.mjs` 把本机真实会话日志搬进隔离 home（会话截图与 `e2e:session` 用）。
 - `tools/preview.tsx`：离线设计预览页（假数据渲染 Desktop / 设置页），不参与插件产物。
 
@@ -35,5 +36,6 @@
 2. **构建一致性校验**：所有改动完成后必须执行 `npm run build`；浏览器半边改完还要 `npm run typecheck`。
 3. **皮肤铁律：只碰 color / background / border-color / font / letter-spacing / text-transform / border-radius，绝不碰 padding / margin / width / height / position / display / overflow / flex / grid**。侧边栏与会话流的尺寸是官方契约（`--dsh-sidebar-inline-padding`、`--dsh-session-list-*`、`container-type` 等），历史上改坏过一次；完整"不要动"清单见 `docs/references/261022-dsh-theme-surface-map.md` 第 7.3 节。
 4. **窗格不许静默裁切**：`.dos-panel` 是 `overflow: hidden`，行数必须由可用高度算出来（见 `panels.tsx` 的 `systemRows`），并由 e2e 的 "窗格内容不被静默裁掉" 用例守住。
-5. **测试规范**：日常验证采用 `npm run e2e`（首页桌面层）与 `npm run e2e:session`（会话视图，需先 `node e2e/seed-conversation.mjs` 并重启实例），底层由 `dsh-e2e` 托管、动态分配独立端口与隔离 home；截图用 `npm run e2e:shots`；两者都会播种夹具，测试脚本自己负责清理上一轮夹具（`resetFixtures`）。测试完成必须及时执行 `dsh-e2e stop` 释放槽位与内存。
-6. **线上服务守护**：严禁未经用户明确书面同意重启线上 DSH 服务。
+5. **测试规范**：日常验证采用 `npm run test:host`（宿主端点跨平台，不启 GUI）、`npm run e2e`（首页桌面层与 412px HUD，含触控/抽屉断言）与 `npm run e2e:session`（会话视图与窄屏遥测条，需先 `node e2e/seed-conversation.mjs` 并重启实例），GUI 底层由 `dsh-e2e` 托管、动态分配独立端口与隔离 home；截图用 `npm run e2e:shots`；两者都会播种夹具，测试脚本自己负责清理上一轮夹具（`resetFixtures`）。测试完成必须及时执行 `dsh-e2e stop` 释放槽位与内存。Windows 真机路径与能力位由 `.github/workflows/host.yml` 的 `windows-latest` 兜底。
+6. **Windows 路径归一化**：会话投影里的 `cwd` 与客户端 `?ws=` 可能以 `C:\a\b` / `C:/A/B` / 尾斜杠等不同形态出现；`harness.ts` 的 `workspaceKey` 统一分隔符、去尾斜杠并在 win32 折叠大小写，改工作区过滤时不要退回逐字节比较。
+7. **线上服务守护**：严禁未经用户明确书面同意重启线上 DSH 服务。

diff --git a/docs/features/261031-mobile-windows/261031-mobile-windows.plan.md b/docs/features/261031-mobile-windows/261031-mobile-windows.plan.md
@@ -1,0 +1,33 @@
+# 移动端完整 HUD 与 Windows 宿主校验 · 计划
+
+## 背景
+
+dsh-os 的实际使用环境是用户自己的 Windows 宿主 DSH 与手机浏览器。此前首页在窄屏（< 780px）只保留两条压缩状态，四块窗格、模型账本、口径/明暗/自检入口全部消失；Windows 半边虽然已有 `node:os` 兜底，但路径比较、CPU 型号与磁盘能力位仍有真机风险。
+
+## 目标
+
+1. **Windows 真的可用**：宿主端点在无 `/proc`、`/sys` 的平台上仍给出真实 CPU / 内存 / 磁盘读数，能力位与界面隐藏逻辑一致；同一工作区的 `C:\a\b`、`C:/A/B` 与尾斜杠形式必须命中同一份账本。
+2. **移动端功能完整**：窄屏也能访问 SYS / WS / SESS / LEDGER 四块窗格、账本时间窗、WS/ALL 口径、明暗切换、开机自检与设置入口；触控目标与明细卡不得溢出。
+
+## 方案
+
+### 宿主半边
+
+- `harness.ts` 引入 `workspaceKey`（统一分隔符、去尾斜杠、Windows 折叠大小写）与 `workspaceName`（显示名），快照按归一化键过滤。
+- `procfs.ts` 的 CPU 型号在 `os.cpus()` 给不出型号时使用 `PROCESSOR_IDENTIFIER`，最后才退到 `${arch} ${cores}-core`，不再硬编码 ARM64。
+- `readDisk` 对非法容量返回 null；`metrics.ts` 用实际可读性填写 `cap.disk`，界面不再显示 `0/0` 的假磁盘行。
+- `Boot` 的挂载点、网络行与 FPS 改为真实读数。
+
+### 浏览器半边
+
+- `Desktop.tsx` 在 `dense` 布局下增加底部抽屉：四个页签复用桌面窗格组件（inline 样式），底部固定 WS/ALL、SYS/DARK/LIGHT、BOOT 与 SETTINGS；顶部压缩条与任务栏 HUD chip 都能打开抽屉。
+- 窄屏顶栏改用更小的左右边距，极窄屏隐藏时钟与会话计数，避免文字互相压住。
+- 账本在窄屏收起 TPS / share 两列，保留 model / sess / input / output / cache。
+- 遥测条在窄屏收起 workspace 与明细字段，保留模型、压力计、百分比、年龄；明细卡改为两列网格、底部操作可换行，条子加高到 24px 并放大展开按钮。
+- `openHostSettings` 改为优先点击 `_settingsArea` 内的按钮，兼容折叠成图标的侧边栏。
+
+### 验证
+
+- 新增 `e2e/host.mjs`：直接加载 `lib/index.js`，用临时 DSH_HOME 播种 Windows 风格路径夹具，断言两个端点。
+- 新增 `.github/workflows/host.yml`：Ubuntu + `windows-latest` 矩阵跑 `npm ci && npm run build && node e2e/host.mjs`，Windows runner 就是真机平台证据。
+- 扩展现有 Playwright e2e：412×915 下断言顶栏不压字、HUD 四页签/账本/口径/明暗/设置入口、遥测条与明细卡无横向溢出。

diff --git a/README.en.md b/README.en.md
@@ -91,6 +91,11 @@ Reskinning goes through DSH's official theme token overlay (`ctx.theme.overrideT
     - Press `Esc` or click anywhere to skip the boot self-test.
     - Taskbar: `FIELD` background toggle, `BOOT` replay, `WS/ALL` scope, `SYS/DARK/LIGHT` ink, `SETTINGS`; the ticker on the right streams real events (CPU saturation, memory pressure, network bursts, sessions starting and stopping).
 
+11. **Complete mobile HUD**
+    - Narrow screens are no longer limited to two status bars: tap `HUD` or either status strip to open a bottom sheet with the `SYS / WS / SESS / LEDGER` panels, ledger windows, `WS/ALL` scope, ink and boot controls.
+    - The rail no longer collides at 412px; taskbar and sheet controls use touch-sized targets; the ledger drops the TPS/share columns.
+    - The in-session telemetry strip keeps only model, pressure and age on narrow screens; the detail card uses a two-column grid and never overflows the viewport or covers the conversation.
+
 ---
 
 ## Install
@@ -134,6 +139,8 @@ Then point your profile's `package.json` at `"dsh-os": "link:/absolute/path/dsh-
 
 Rows that a platform cannot provide are hidden entirely (the SYS panel tags the ARCH row with `node:os`) instead of showing a column of `--`. On Windows, `link:` paths accept forward slashes, e.g. `"dsh-os": "link:C:/Users/you/dsh-os"`.
 
+`.github/workflows/host.yml` runs the same `e2e/host.mjs` on `ubuntu-latest` and `windows-latest`: a real Windows runner verifies CPU/memory/disk readings, capability flags, workspace path normalization and ledger aggregation.
+
 ### Data & permissions
 
 - **Read-only** access to `/proc`, `/sys` and `statfs` for host metrics, plus **read-only** access to DSH's own session projection cache (`<DSH_HOME>/storages/session_projcache`) for the ledger. Everything stays on the machine; nothing is sent anywhere.
@@ -162,8 +169,9 @@ Rows that a platform cannot provide are hidden entirely (the SYS panel tags the 
 ```bash
 npm run build          # build lib/index.js and lib/client.js
 npm run typecheck      # tsc --noEmit
-npm run e2e            # isolated dsh-e2e instance + headless smoke test (seeds fixtures)
-npm run e2e:session    # session view checks: real telemetry readings, detail card not squeezing the body, in-card ink change
+npm run test:host      # host endpoints against a temp DSH_HOME (no GUI)
+npm run e2e            # isolated dsh-e2e instance + headless smoke test at desktop and 412px
+npm run e2e:session    # session view checks: real telemetry readings, card not squeezing the body, in-card ink, narrow strip
 npm run e2e:shots      # regenerate the official screenshots in screenshots/
 ```
 

diff --git a/README.md b/README.md
@@ -91,6 +91,11 @@ DeepSeek Harness OS：一套覆盖**整个** DSH Web GUI 的主题 —— 会话
    - 键盘 `Esc` / 点击屏幕：立即跳过开机自检序列。
    - 底部任务栏：`FIELD` 背景动效开关、`BOOT` 重播、`WS/ALL` 统计口径、`SYS/DARK/LIGHT` 明暗、`SETTINGS` 入口；右侧滚动条显示真实事件（CPU 打满、内存压力、网络突发、会话起停）。
 
+11. **移动端完整 HUD**
+    - 窄屏不再只剩两条状态：任务栏 `HUD` 或点状态条打开底部抽屉，`SYS / WS / SESS / LEDGER` 四块窗格、账本时间窗、`WS/ALL` 口径、明暗与自检都能访问。
+    - 顶栏在 412px 下不压字；任务栏与抽屉按钮按触控尺寸放大；账本自动收起 TPS / 占比两列。
+    - 会话遥测条窄屏只留模型、压力计与年龄，明细收进点开的卡片；卡片改成两列，不超视口、不压正文。
+
 ---
 
 ## 安装
@@ -135,6 +140,8 @@ cd dsh-os && npm install && npm run build
 拿不到的行界面会直接隐藏，并在 SYS 面板的 ARCH 行标注 `node:os`，不会挂一排 `--`。
 Windows 上 `link:` 路径用正斜杠即可，例如 `"dsh-os": "link:C:/Users/you/dsh-os"`。
 
+宿主半边由 `.github/workflows/host.yml` 在 `ubuntu-latest` 与 `windows-latest` 上跑同一份 `e2e/host.mjs`：真实 Windows runner 上验证 CPU / 内存 / 磁盘读数、能力位、工作区路径归一化与账本聚合。
+
 ### 数据与权限
 
 - **只读**本机 `/proc`、`/sys`、`statfs` 拿系统指标，并**只读** DSH 自己的会话投影缓存（`<DSH_HOME>/storages/session_projcache`）做账本聚合；全部在本机内循环，不联网。
@@ -163,8 +170,9 @@ Windows 上 `link:` 路径用正斜杠即可，例如 `"dsh-os": "link:C:/Users/
 ```bash
 npm run build          # 构建 lib/index.js 与 lib/client.js
 npm run typecheck      # tsc --noEmit
-npm run e2e            # dsh-e2e 隔离实例 + 无头冒烟测试（首页桌面层，含夹具播种）
-npm run e2e:session    # 会话视图检查：遥测条真实读数、明细卡不压正文、卡片内换墨
+npm run test:host      # 宿主端点跨平台校验（临时 DSH_HOME，不启动 GUI）
+npm run e2e            # dsh-e2e 隔离实例 + 无头冒烟测试（首页桌面层 + 412px HUD，含夹具播种）
+npm run e2e:session    # 会话视图检查：遥测条真实读数、明细卡不压正文、卡片内换墨、窄屏遥测条
 npm run e2e:shots      # 重新生成 screenshots/ 里的官方截图
 ```
 

diff --git a/docs/features/261031-mobile-windows/261031-mobile-windows.summary.md b/docs/features/261031-mobile-windows/261031-mobile-windows.summary.md
@@ -1,0 +1,37 @@
+# 移动端完整 HUD 与 Windows 宿主校验 · 实施总结
+
+## 完成内容
+
+### 移动端
+
+- 首页窄屏新增底部 HUD 抽屉：`SYS / WS / SESS / LEDGER` 四个页签复用桌面窗格，底部提供 `WS/ALL`、`SYS/DARK/LIGHT`、`BOOT`、`SETTINGS`。压缩状态条与任务栏 `HUD` chip 均可打开，点遮罩、`Esc` 或关闭按钮退出。
+- 顶栏在 412px 与 320px 级别不再互相压字；极窄屏隐藏时钟与会话计数、保留 CPU / MEM / TOK。
+- 任务栏 chip 最小触控高度 22px，抽屉页签与底部操作 26–30px；账本窄屏收起 TPS / 占比两列。
+- 会话遥测条窄屏加高到 24px，收起 workspace 与 in/out/cache/tps 明细，保留模型、压力计与年龄；明细卡改为两列网格，展开按钮 24×20，卡片与底部操作不横向溢出。
+
+### Windows
+
+- 工作区比较统一分隔符、尾斜杠与 Windows 盘符大小写，`C:\a\b` 与 `C:/A/B` 命中同一份账本。
+- CPU 型号兜底不再输出 ARM64 占位串；Windows 上 `os.cpus()` 无型号时读 `PROCESSOR_IDENTIFIER`。
+- 磁盘读不到时 `cap.disk=false`，SYS 面板整行不画；Boot 的挂载点、网络行与 FPS 改成真实值。
+- 设置入口改为按 `_settingsArea` 查找，兼容折叠成图标的侧边栏。
+
+## 验证
+
+| 项 | 结果 |
+| --- | --- |
+| `npm run typecheck` / `npm run build` | 通过 |
+| `npm run test:host`（Linux） | 通过 |
+| GitHub Actions [host · windows-latest](https://github.com/john-walks-slow/dsh-os/actions/runs/41205451554) | 通过（15 项断言，win32 x64） |
+| `npm run e2e`（1440 / 1280 / 1100 / 412） | 通过，61 条断言 |
+| `npm run e2e:session`（1440 + 412） | 通过，20 条断言 |
+
+## 相关文件
+
+- 宿主：`src/harness.ts`、`src/procfs.ts`、`src/metrics.ts`
+- 移动端：`src/client/os/Desktop.tsx`、`src/client/os/panels.tsx`、`src/client/skin/strip.tsx`、`src/client/styles.ts`
+- 测试：`e2e/host.mjs`、`e2e/smoke.mjs`、`e2e/session.mjs`、`.github/workflows/host.yml`
+
+## 验证备注
+
+当前 DSH 0.2.1-rc.3 不再接受 `DSH_TOKEN=e2etest`，而 `dsh-e2e run` 仍按固定 token 注入，导致实例返回 401。本轮 GUI 验证改为从 `.dsh-e2e-home/instance.log` 读取启动 URL 里的 launch token，手动注入 `DSH_E2E_TOKEN` 后执行脚本；`dsh-e2e` 本身的修复不在本需求范围内。
